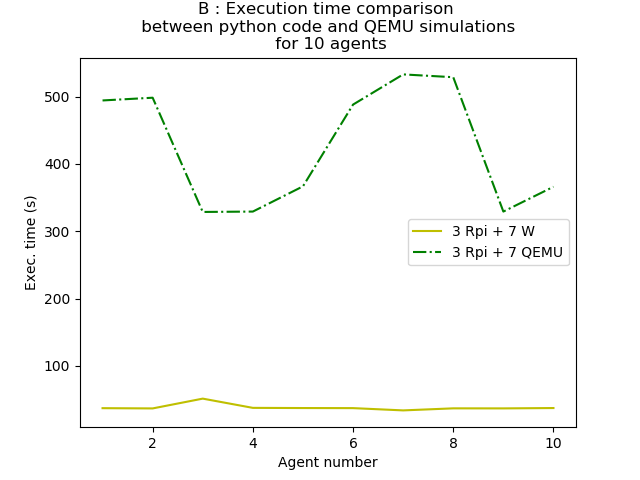
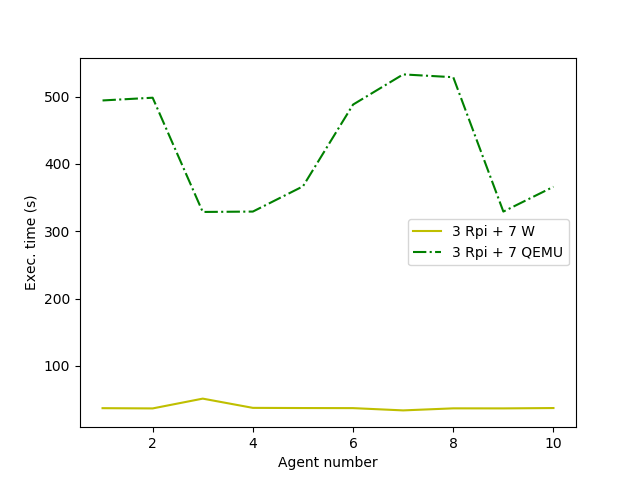
fix minor issue

Changed region(s): [[0.2188, 0.0, 0.8125, 0.125]]

diff --git a/qemu_vs_python.py b/qemu_vs_python.py
@@ -20,7 +20,7 @@ green_lg_time, = plt.plot(
 )
 plt.xlabel('Agent number')
 plt.ylabel('Exec. time (s)')
-plt.title('B : Execution time comparison \n between python code and QEMU simulations \n for 10 agents')
+#plt.title('B : Execution time comparison \n between the deployed system and QEMU simulations \n for 10 agents')
 plt.legend(
     handles=[yellow_lg_time, green_lg_time]
 )
@@ -44,7 +44,7 @@ plt.plot(
 
 plt.xlabel('Agent number')
 plt.ylabel('Msg Size (bytes)')
-plt.title('D : Average Message size \n received for 10 agents', loc='center')
+#plt.title('D : Average Message size \n received for 10 agents', loc='center')
 plt.legend(
     handles=[yellow_lg_time, green_lg_time]
 )
@@ -75,7 +75,7 @@ brown_lg_time, = plt.plot(
 
 plt.xlabel('Agent number')
 plt.ylabel('Exec. time (s)')
-plt.title('A : Execution time comparison \n between python code and QEMU simulations \n for 6 agents')
+#plt.title('A : Execution time comparison \n between the deployed system and QEMU simulations \n for 6 agents')
 plt.legend(
     handles=[red_lg_time, brown_lg_time]
 )
@@ -97,7 +97,7 @@ plt.plot(
 )
 plt.xlabel('Agent number')
 plt.ylabel('Msg Size (bytes)')
-plt.title('C : Average Message size \n received for 6 agents', loc='center')
+#plt.title('C : Average Message size \n received for 6 agents', loc='center')
 plt.legend(
     handles=[red_lg_time, brown_lg_time]
 )

diff --git a/all.py b/all.py
@@ -28,7 +28,7 @@ multi_legend_6, = plt.plot([1,2,3,4,5,6], [50.26, 46.72, 47.69, 50.33, 44.04, 47
 multi_legend_2, = plt.plot([1,2], [6.75, 8.81], '-.b', label='Multivariable (2 agents)')
 
 plt.legend(handles=[room_legend, zone_legend_4, zone_legend_6, multi_legend_2, multi_legend_6])
-plt.title('Execution time comparison for 6 Rooms', loc='center')
+#plt.title('Execution time comparison for 6 Rooms', loc='center')
 plt.xlabel('Agent number')
 plt.ylabel('Execution time (s)')
 
@@ -72,7 +72,7 @@ plt.plot([], [], '', label='a4 = Room Approache')
 plt.plot([], [], '', label="a5 = Multivariable Approache (6 Areas)")
 plt.legend()
 
-plt.title('Average execution time comparison for 6 Rooms', loc='center')
+#plt.title('Average execution time comparison for 6 Rooms', loc='center')
 plt.ylabel('Average execution time (s)')
 plt.savefig('output/all_histogram.png')
 plt.show()

diff --git a/nb_agents.py b/nb_agents.py
@@ -6,7 +6,7 @@ plt.plot(nb_agents, [40, 80, 128.2, 1834.6, 2012, 1328, 2108, 8221.3, 2418.875, 
 plt.plot(nb_agents, [76, 101, 112, 1553, 1863, 1402, 1601, 12086, 2363, 6396, 11906], '-b')
 plt.plot(nb_agents, [76, 95, 169, 2242, 1749, 1388, 1202, 13017, 3058, 6493, 12154], '-c')
 
-plt.title('Execution time depending on number of agents with Frodo', loc='center')
+#plt.title('Execution time depending on number of agents with Frodo', loc='center')
 plt.xlabel('Number of agents')
 plt.ylabel('Execution time (s)')
 
